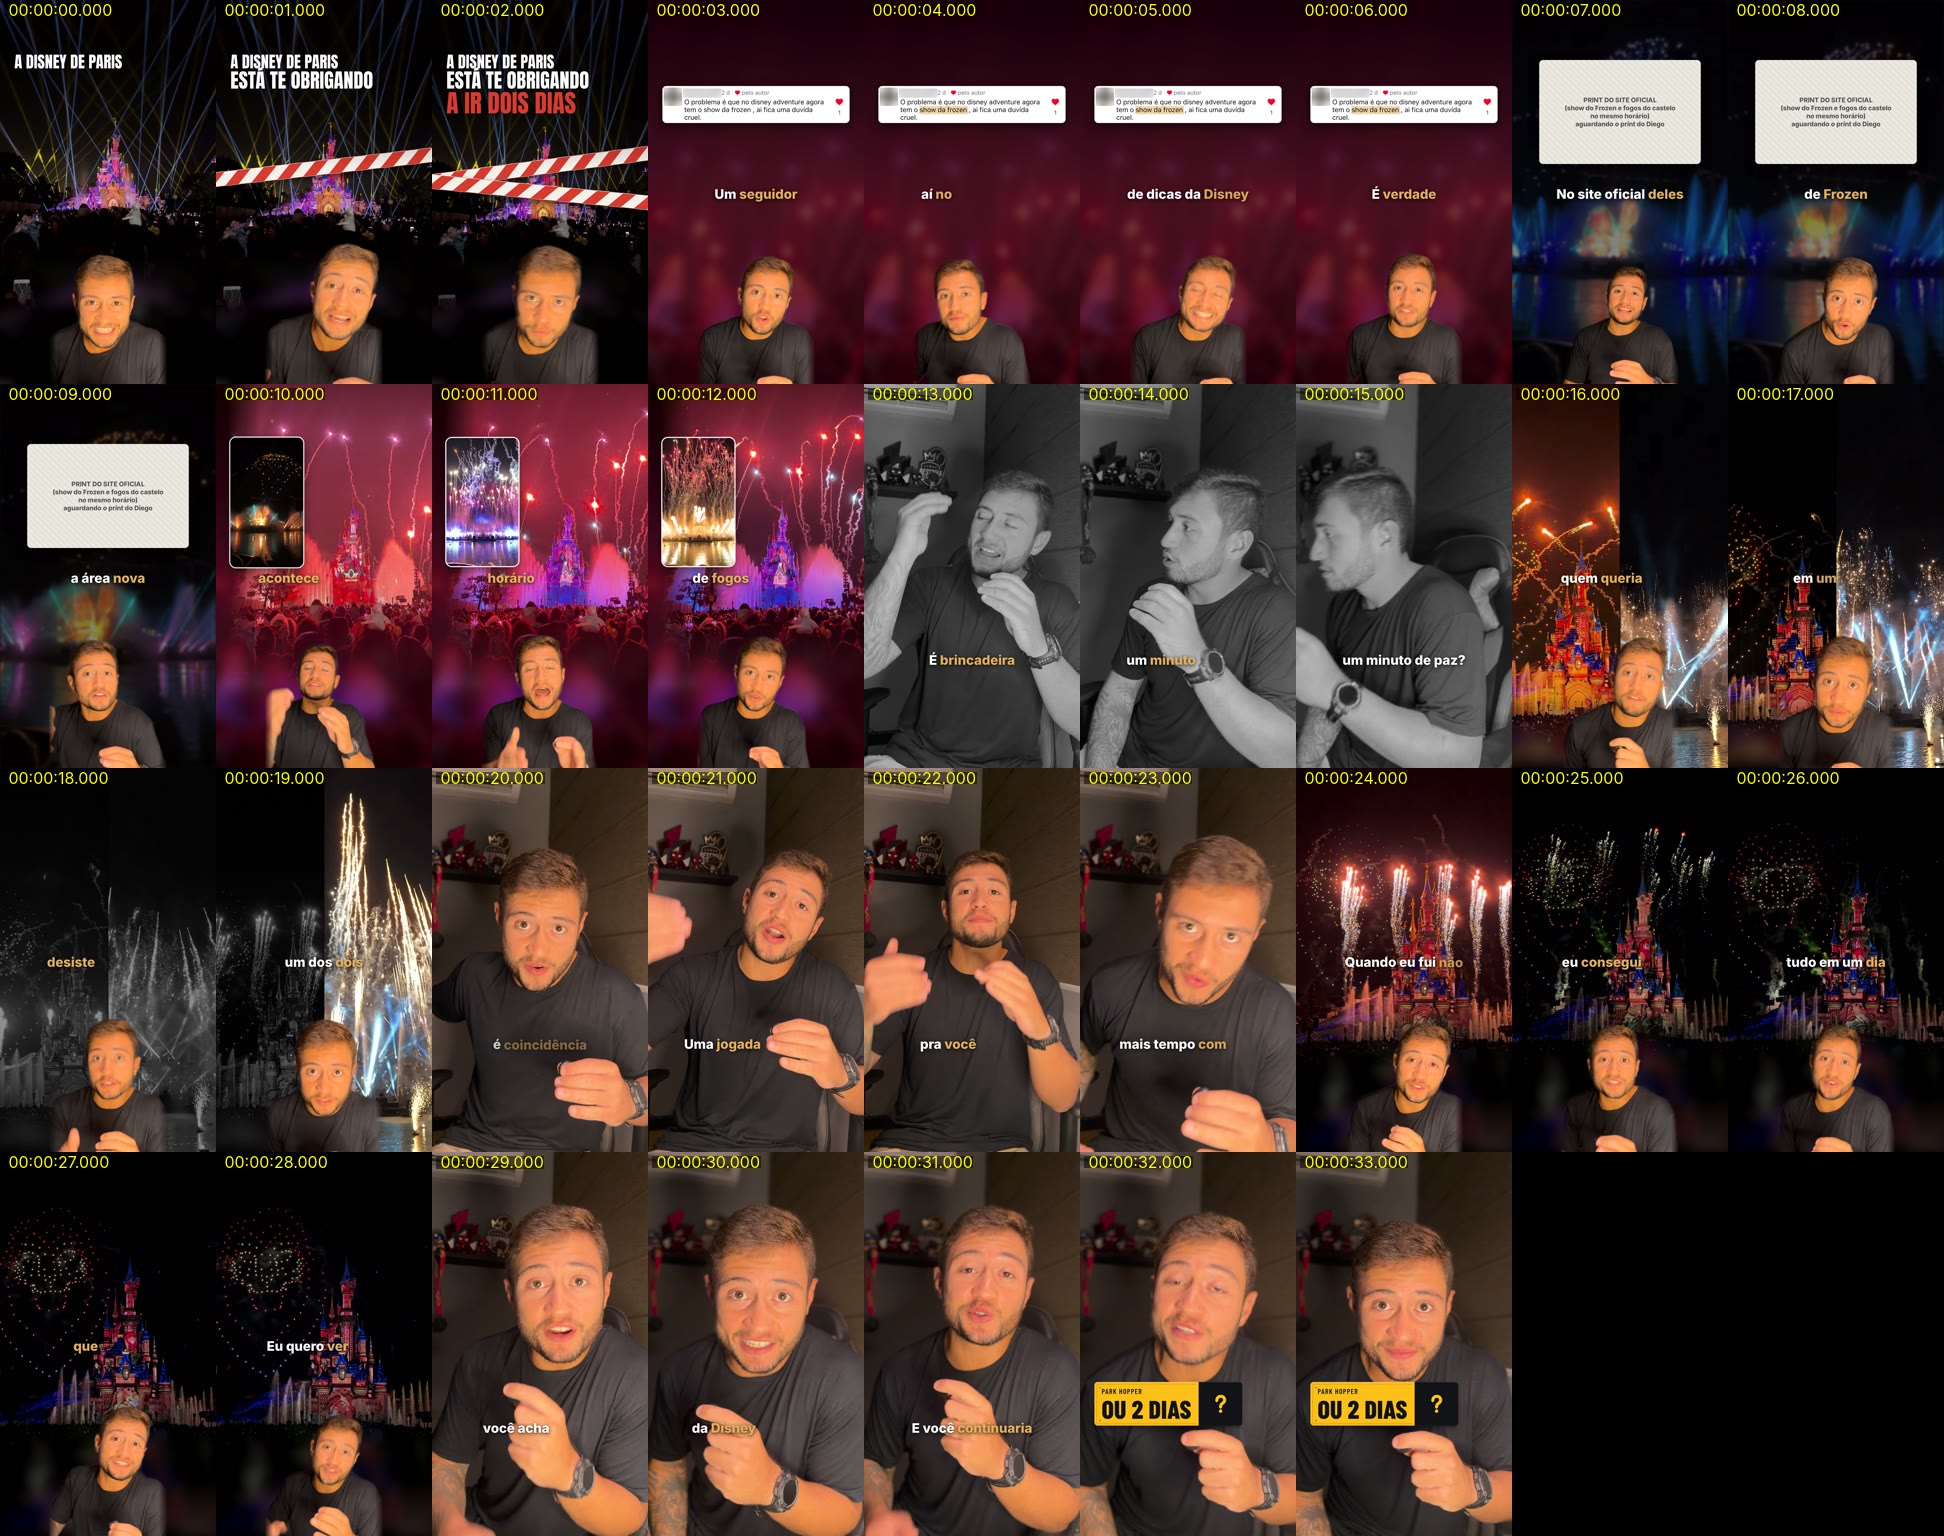
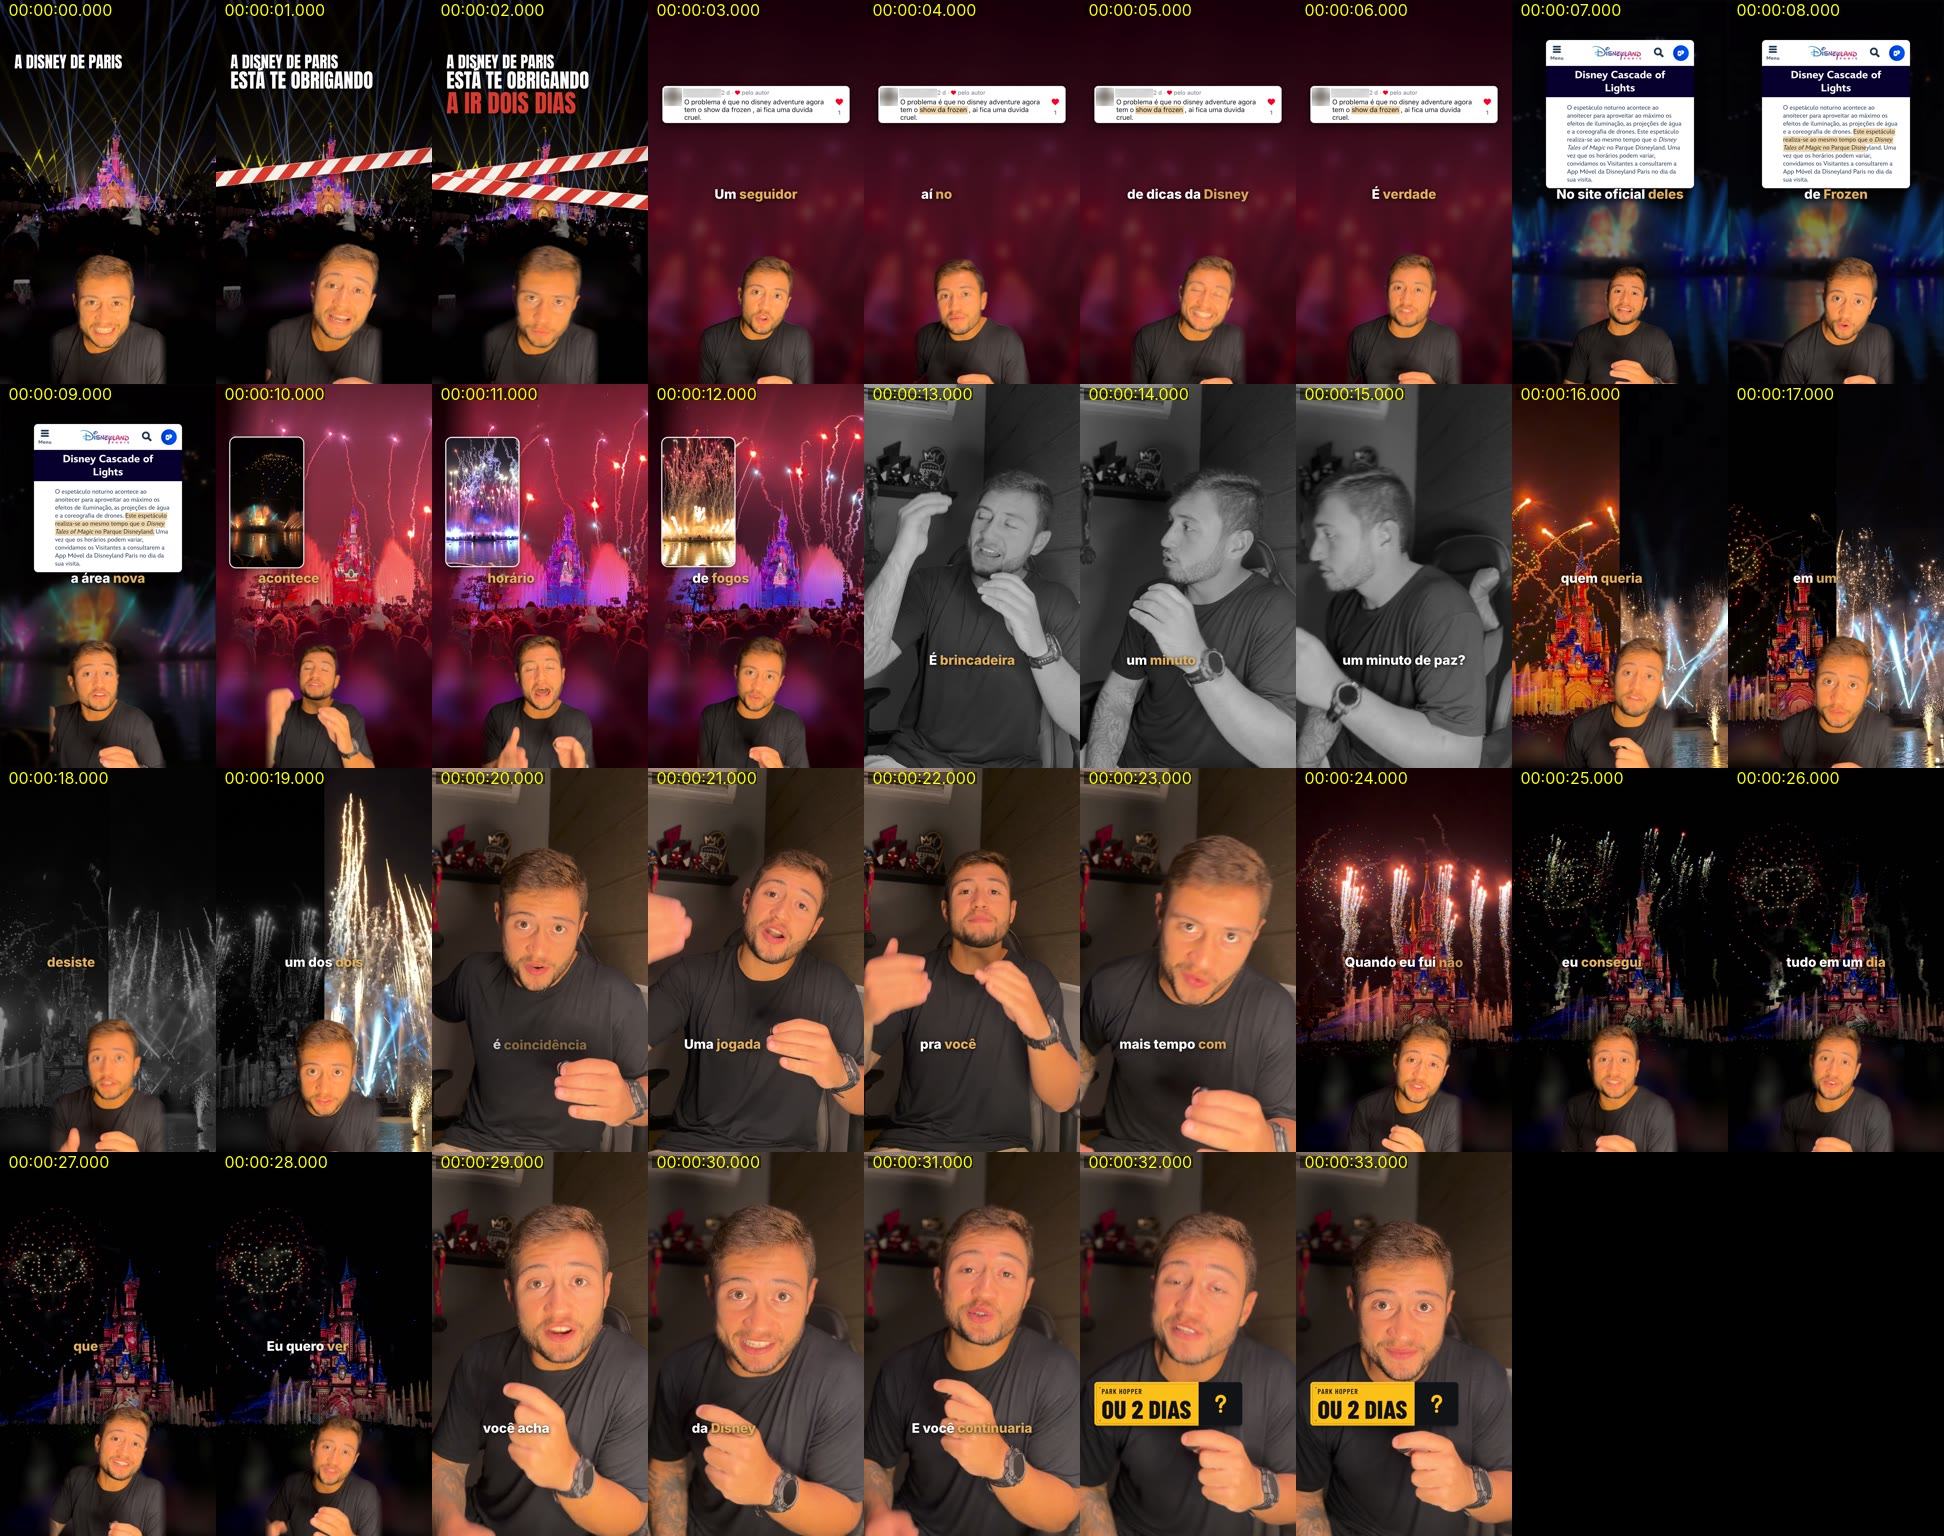
Reel Disney Frozen REV2 final: print do site oficial confirmando o mesmo horário
- Print da página do Disney Cascade of Lights (disneylandparis.com/pt-pt, 14/11/2026): "Este espetáculo
  realiza-se ao mesmo tempo que o Disney Tales of Magic no Parque Disneyland." com marca-texto no "diz que".
  Montado de capturas reais (cabeçalho, título e o parágrafo), sem mudar texto.
- Sem cartões provisórios: sai reel_disney-frozen_rev2_postar.mp4 (−14 LUFS, pico −1,5 dBTP); os
  arquivos _provisorio da REV2 saem do branch (ficam no histórico).
- QA e legenda do post atualizadas (horário confirmado no site; a Disney sugere dois dias).

Claude-Session: https://claude.ai/code/session_01TJN9nseHjzdJf2JtViV1LY

Changed region(s): [[0.7716, 0.0, 0.9877, 0.125], [0.0, 0.25, 0.1235, 0.375]]

diff --git a/reels/disney-frozen/rev2/QA_REV2.md b/reels/disney-frozen/rev2/QA_REV2.md
@@ -1,6 +1,6 @@
 # QA · REV2 · "A Disney de Paris está te obrigando a ir dois dias" (Frozen × fogos do castelo)
 
-**Veredito: ajustar.** O layout de tela verde segue a referência do Diego, e o show do parque do Frozen entrou com a gravação de tela do TikTok. O print do comentário entrou (recortado, com nome e foto borrados). Falta só **o print do site oficial**, que continua como cartão provisório listrado (arquivo com sufixo `_provisorio`). Com ele em `imagens/site_oficial.png`, basta rodar `bash scripts/render.sh`.
+**Veredito: pronto**, depois da escuta do Diego (transcrição e emendas, ≈ 1 min) e da decisão sobre o crédito do vídeo do TikTok. O layout de tela verde segue a referência do Diego; o show do parque do Frozen entrou com a gravação de tela do TikTok; o print do comentário (nome e foto borrados) e o **print do site oficial** (com a frase do "mesmo tempo") estão no vídeo.
 
 ## O que mudou da REV1 (pedido do Diego, 14/11/2026)
 
@@ -18,7 +18,7 @@
 |---|---|---|
 | 0,00–3,10 | "A Disney de Paris está te obrigando a ir dois dias pro parque." | **Tela verde.** Castelo com os lasers do show (acervo) em tela cheia, fita zebrada cruzando o castelo, gancho em letras grandes ("A IR DOIS DIAS" em vermelho) |
 | 3,10–6,57 | "Um seguidor comentou isso aí no meu vídeo de dicas da Disney. É verdade." | **Tela verde.** Print do comentário ("O problema é que no disney adventure agora tem o show da frozen, ai fica uma duvida cruel."), nome e foto borrados, sobre os fogos desfocados |
-| 6,57–13,07 | "No site oficial deles diz que o show de Frozen, a área nova dos parques, acontece no mesmo horário do show de fogos do castelo." | **Tela verde.** Print do site (provisório, 3,2 s) na frente do show do Disney Adventure World. No "acontece no mesmo horário" o print sai, o show **encolhe para uma janela** (como uma gravação de tela) e os fogos do castelo aparecem atrás: os dois shows ao mesmo tempo |
+| 6,57–13,07 | "No site oficial deles diz que o show de Frozen, a área nova dos parques, acontece no mesmo horário do show de fogos do castelo." | **Tela verde.** Print do site oficial (3,2 s) na frente do show do Disney Adventure World; no "diz que" o marca-texto âmbar passa em "Este espetáculo realiza-se ao mesmo tempo que o Disney Tales of Magic no Parque Disneyland." No "acontece no mesmo horário" o print sai, o show **encolhe para uma janela** (como uma gravação de tela) e os fogos do castelo aparecem atrás: os dois shows ao mesmo tempo |
 | 13,07–15,53 | "É brincadeira, velho? A gente não tem um minuto de paz?" | **Inteiro, preto e branco** |
 | 15,53–19,63 | "Ou seja, quem queria fazer os dois parques em um dia ou desiste ou escolhe um dos dois." | **Tela verde em dois:** fogos do castelo (acervo) × show do Disney Adventure World (TikTok). "desiste" apaga os dois; "escolhe um dos dois" acende um, depois o outro |
 | 19,63–23,93 | "Claramente não é coincidência, né? Uma jogada da Disney pra você passar mais tempo com eles." | **Inteiro** |
@@ -53,7 +53,10 @@ Decupagem, texto da fala, voz e legenda palavra a palavra: os mesmos da REV1 (`.
 
 ## Fatos: o que não está confirmado
 
-- **O horário coincidente continua sem confirmação** (o site da Disney recusa acesso automático). O comentário do seguidor fala do show novo e da "dúvida cruel", mas **não fala em mesmo horário**: essa parte vem do site oficial, segundo o Diego. O print do site é a prova na tela.
+- **Horário coincidente: confirmado no site oficial** (14/11/2026, pedido do Diego para o Claude pesquisar e tirar o print). Página do Disney Cascade of Lights em `disneylandparis.com/pt-pt/entretenimento/disney-adventure-world/disney-cascade-of-lights`, pergunta "O Disney Cascade of Lights acontece todas as noites?": *"Este espetáculo realiza-se ao mesmo tempo que o Disney Tales of Magic no Parque Disneyland. Uma vez que os horários podem variar, convidamos os Visitantes a consultarem a App Móvel da Disneyland Paris no dia da sua visita."* A mesma resposta continua: *"Se estiveres hospedado num Hotel Disney como parte de um pacote que inclui Entradas para os Parques Disney, as tuas Entradas incluem o acesso a ambos os Parques durante pelo menos dois dias, permitindo-te desfrutar plenamente destas duas experiências únicas, cada uma num Parque diferente."* (a própria Disney sugere dois dias, o que reforça a leitura do Diego, mas a "jogada" continua sendo opinião).
+- **O print:** capturas reais da página (navegador sem login, versão de celular, 340 px de largura para o texto ficar legível no Reel), montadas em uma imagem: o cabeçalho do site (logo), o título da página e o parágrafo da resposta, sem mudar nenhum texto. Fora do print: o 1º parágrafo da resposta ("Sim! … todas as noites, incluindo ao fim de semana.") e o botão flutuante "Opinião" do site, que cobria o canto (pintado de branco). Capturas originais em `../fonte/prints/site/` (fora do git).
+- O comentário do seguidor fala do show novo e da "dúvida cruel", sem falar em mesmo horário: essa parte vem do site.
+- **Horário exato:** o site não publica; manda ver no app (30 dias antes da visita). O Reel não diz horário.
 - "Claramente não é coincidência" e "jogada da Disney" são opinião do Diego.
 
 ## Conferir no ouvido (≈ 1 min)

diff --git a/reels/disney-frozen/rev2/imagens/LEIA.md b/reels/disney-frozen/rev2/imagens/LEIA.md
@@ -5,6 +5,6 @@ O `preparar.py` usa estes arquivos quando eles existem. Enquanto faltar algum, e
 | Arquivo | O que é | Onde aparece |
 |---|---|---|
 | `comentario_borrado.png` | Print do comentário do seguidor, **com nome e foto já borrados** (o original sem borrão não entra no git) | 3,1–6,6 s, no "Um seguidor comentou isso aí" |
-| `site_oficial.png` | Print do site oficial (ou do app) da Disneyland Paris com o show do Frozen e o show de fogos do castelo no mesmo horário | 6,7–9,9 s, no "No site oficial deles diz que o show de Frozen, a área nova dos parques"; o marca-texto âmbar entra no horário |
+| `site_oficial.png` | Print do site oficial (disneylandparis.com/pt-pt, página do Disney Cascade of Lights, 14/11/2026): cabeçalho, título e o parágrafo "Este espetáculo realiza-se ao mesmo tempo que o Disney Tales of Magic…", montados de capturas reais (originais em ../fonte/prints/site/) | 6,7–9,9 s, no "No site oficial deles diz que o show de Frozen, a área nova dos parques"; o marca-texto âmbar entra no horário |
 
 Na REV2 o show do Disney Adventure World vem da gravação de tela do TikTok (`../fonte/tiktok/tela_longo.mp4`); `frozen_show.jpg` não é mais usado.

diff --git a/reels/disney-frozen/rev2/legenda_post.md b/reels/disney-frozen/rev2/legenda_post.md
@@ -6,7 +6,7 @@ Regras (pedido do Diego): 1 CTA, sem linha de fonte, palavras-chave do tema. O h
 ```
 A Disney de Paris está te obrigando a ir dois dias pro parque? 🏰❄
 
-Um seguidor me avisou e o site oficial mostra: o show novo do Disney Adventure World (o parque da área do Frozen) acontece no mesmo horário do show de fogos do castelo. Quem ia fazer os dois parques num dia só com o park hopper vai ter que escolher um dos dois.
+Um seguidor me avisou e o site oficial confirma: o show novo do Disney Adventure World (o parque da área do Frozen) acontece no mesmo horário do show de fogos do castelo. Quem ia fazer os dois parques num dia só com o park hopper vai ter que escolher um dos dois.
 
 Quando eu fui, deu pra ver tudo em um dia. Agora eu dividiria.
 
